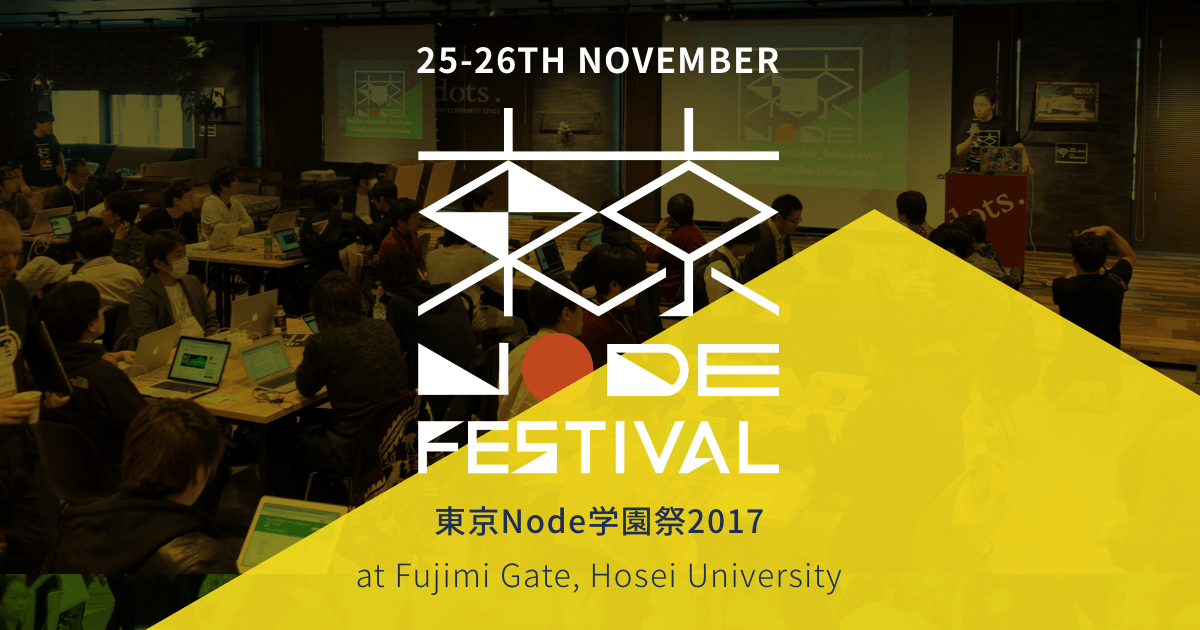
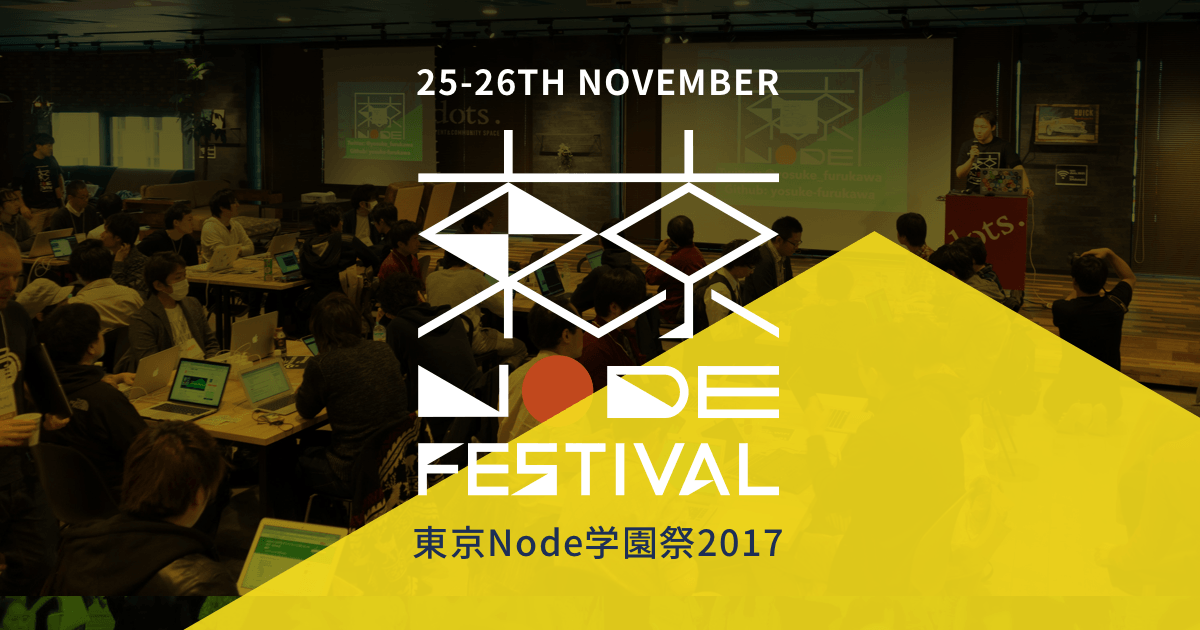
tweaks

diff --git a/2017/src/scss/main.scss b/2017/src/scss/main.scss
@@ -374,7 +374,7 @@ $hex-image: $hex-canvas * $hex-ratio;
 .header-icon {
   width: 32px;
   height: 32px;
-  fill: $color-sand;
+  fill: $color-whitefog;
   @include over-md {
     width: 3rem;
     height: 3rem;
@@ -819,8 +819,7 @@ $hex-image: $hex-canvas * $hex-ratio;
 .outline-date {
   text-transform: uppercase;
 }
-.outline-date,
-.outline-location {
+.outline-date {
   font-weight: 100;
   font-size: 1rem;
   @include over-md {
@@ -926,7 +925,7 @@ $hex-image: $hex-canvas * $hex-ratio;
     padding-bottom: 4rem;
   }
   @include over-hg {
-    padding-top: 16rem;
+    padding-top: 12rem;
     padding-bottom: 8rem;
   }
 }
@@ -1721,7 +1720,7 @@ $hex-image: $hex-canvas * $hex-ratio;
   line-height: $line-tight;
   text-align: center;
   text-transform: uppercase;
-  font-weight: 100;
+  font-weight: 200;
   font-size: 1.5rem;
   color: $color-inky;
   @include over-md {
